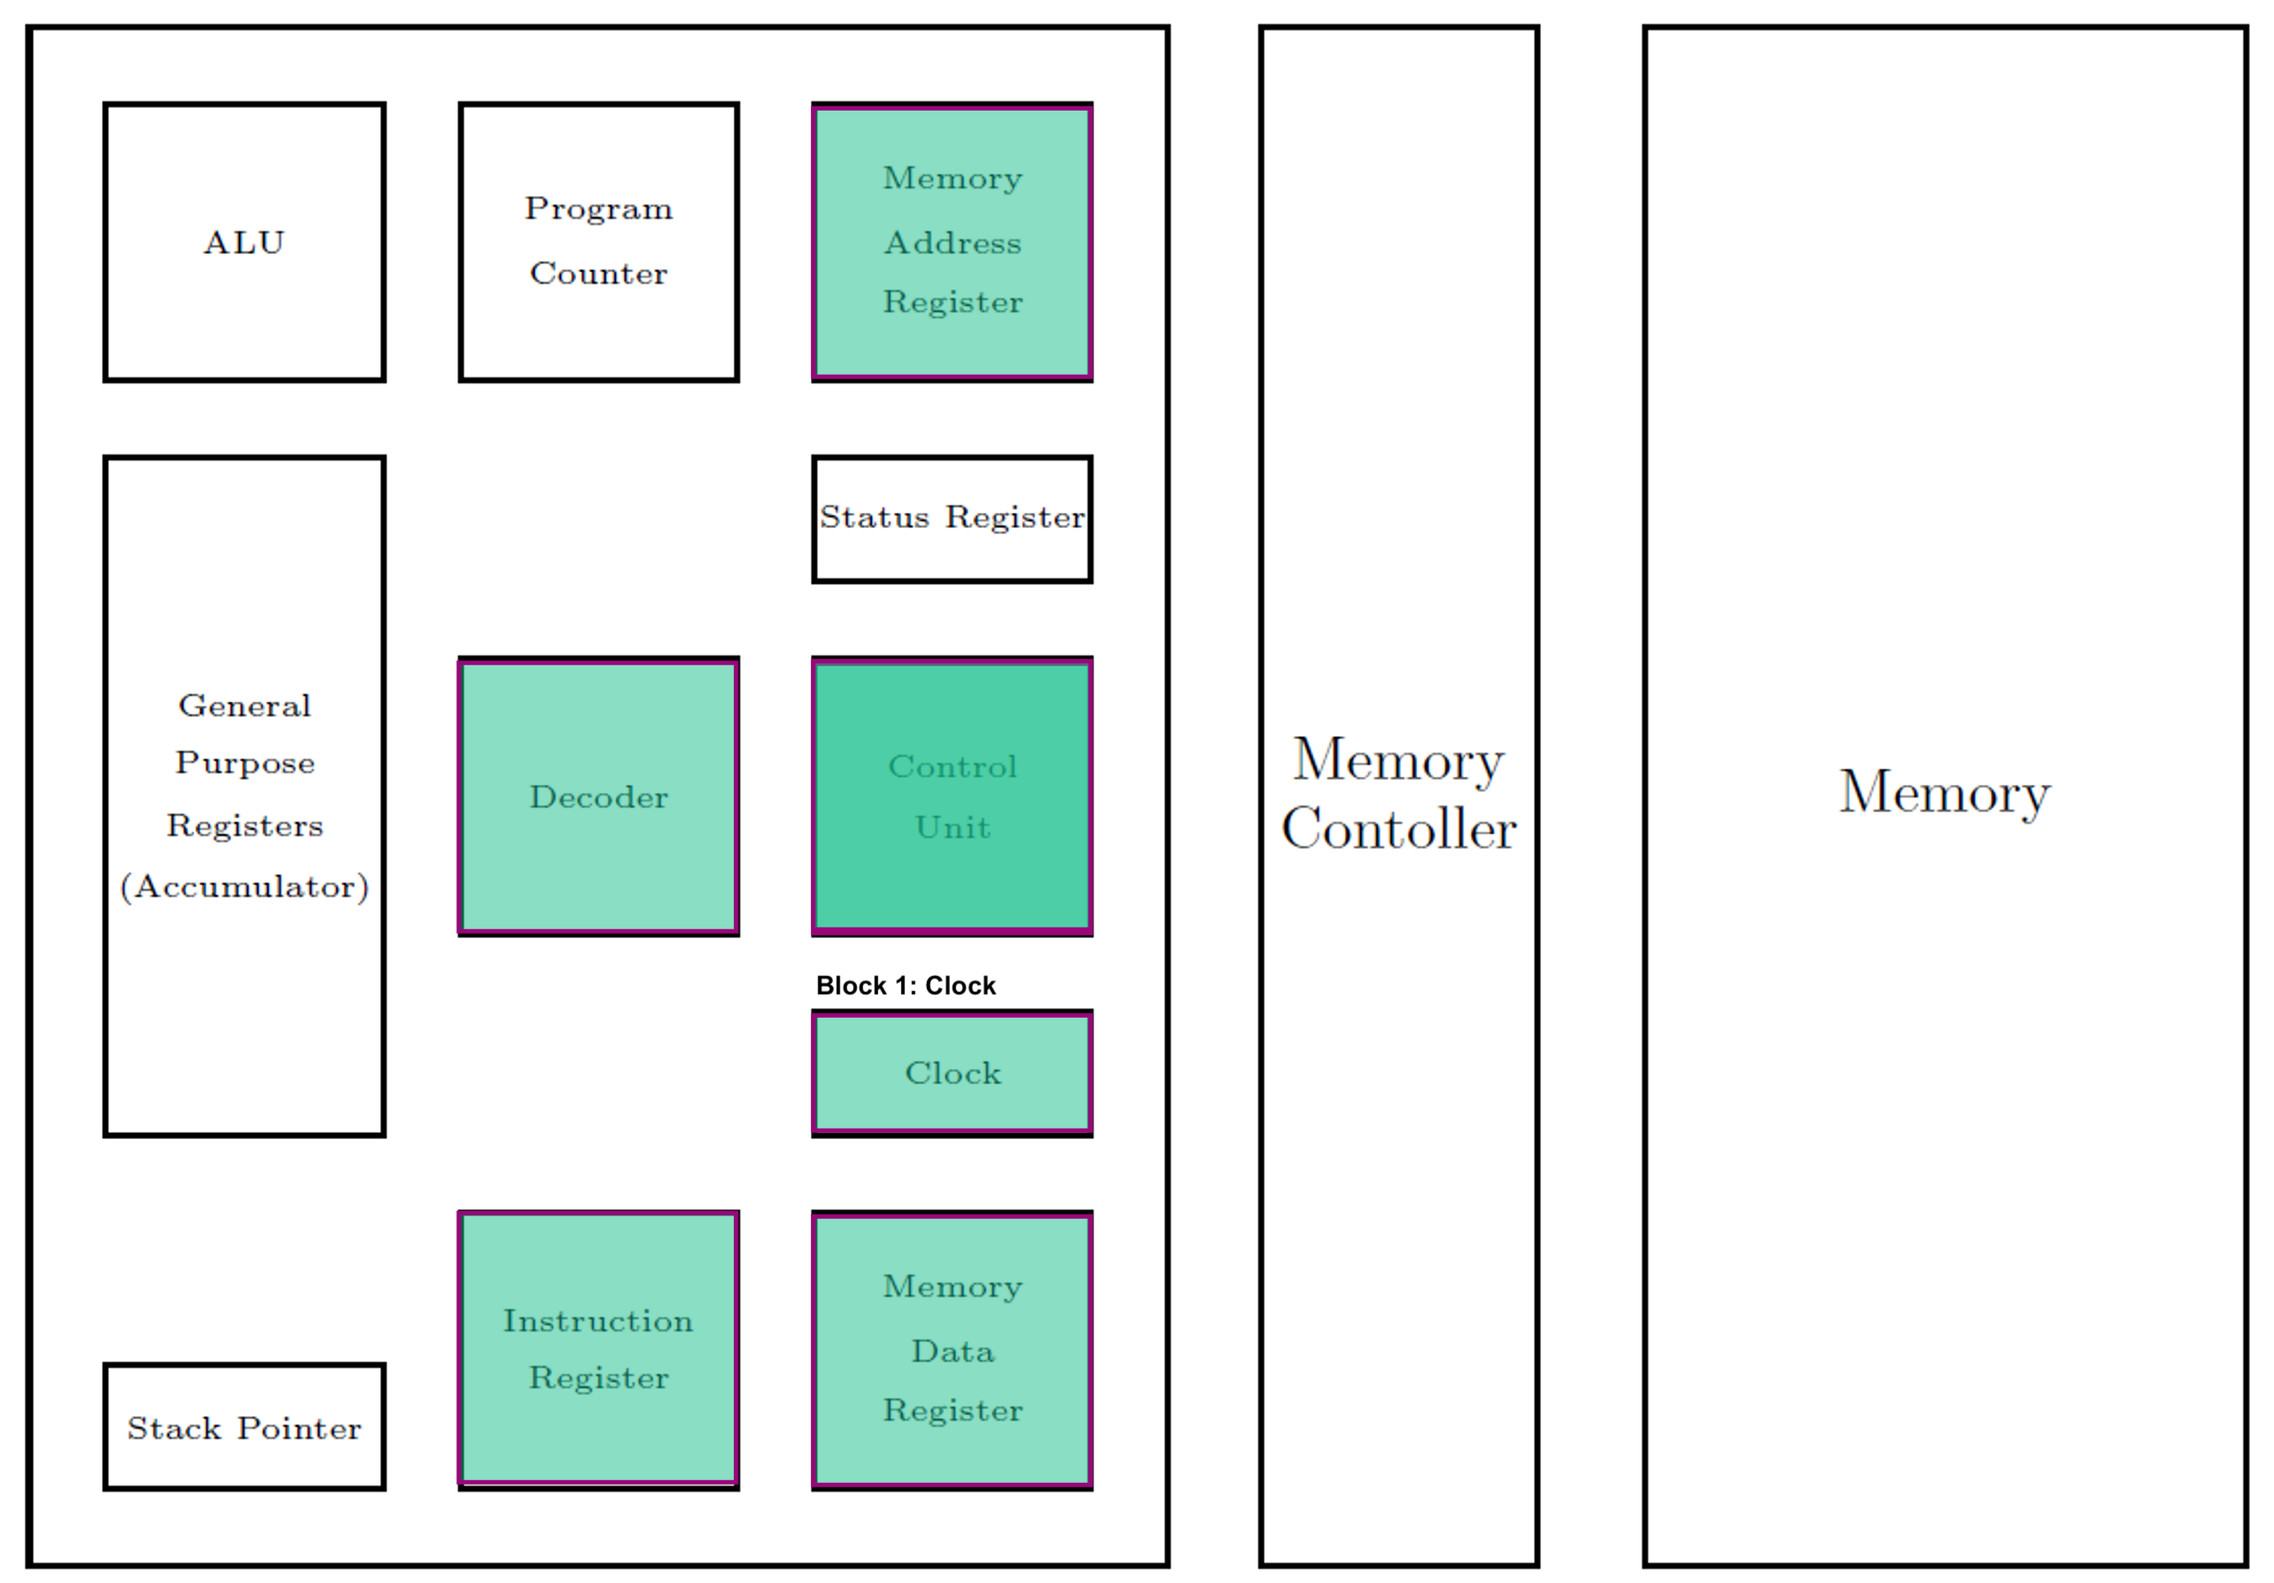
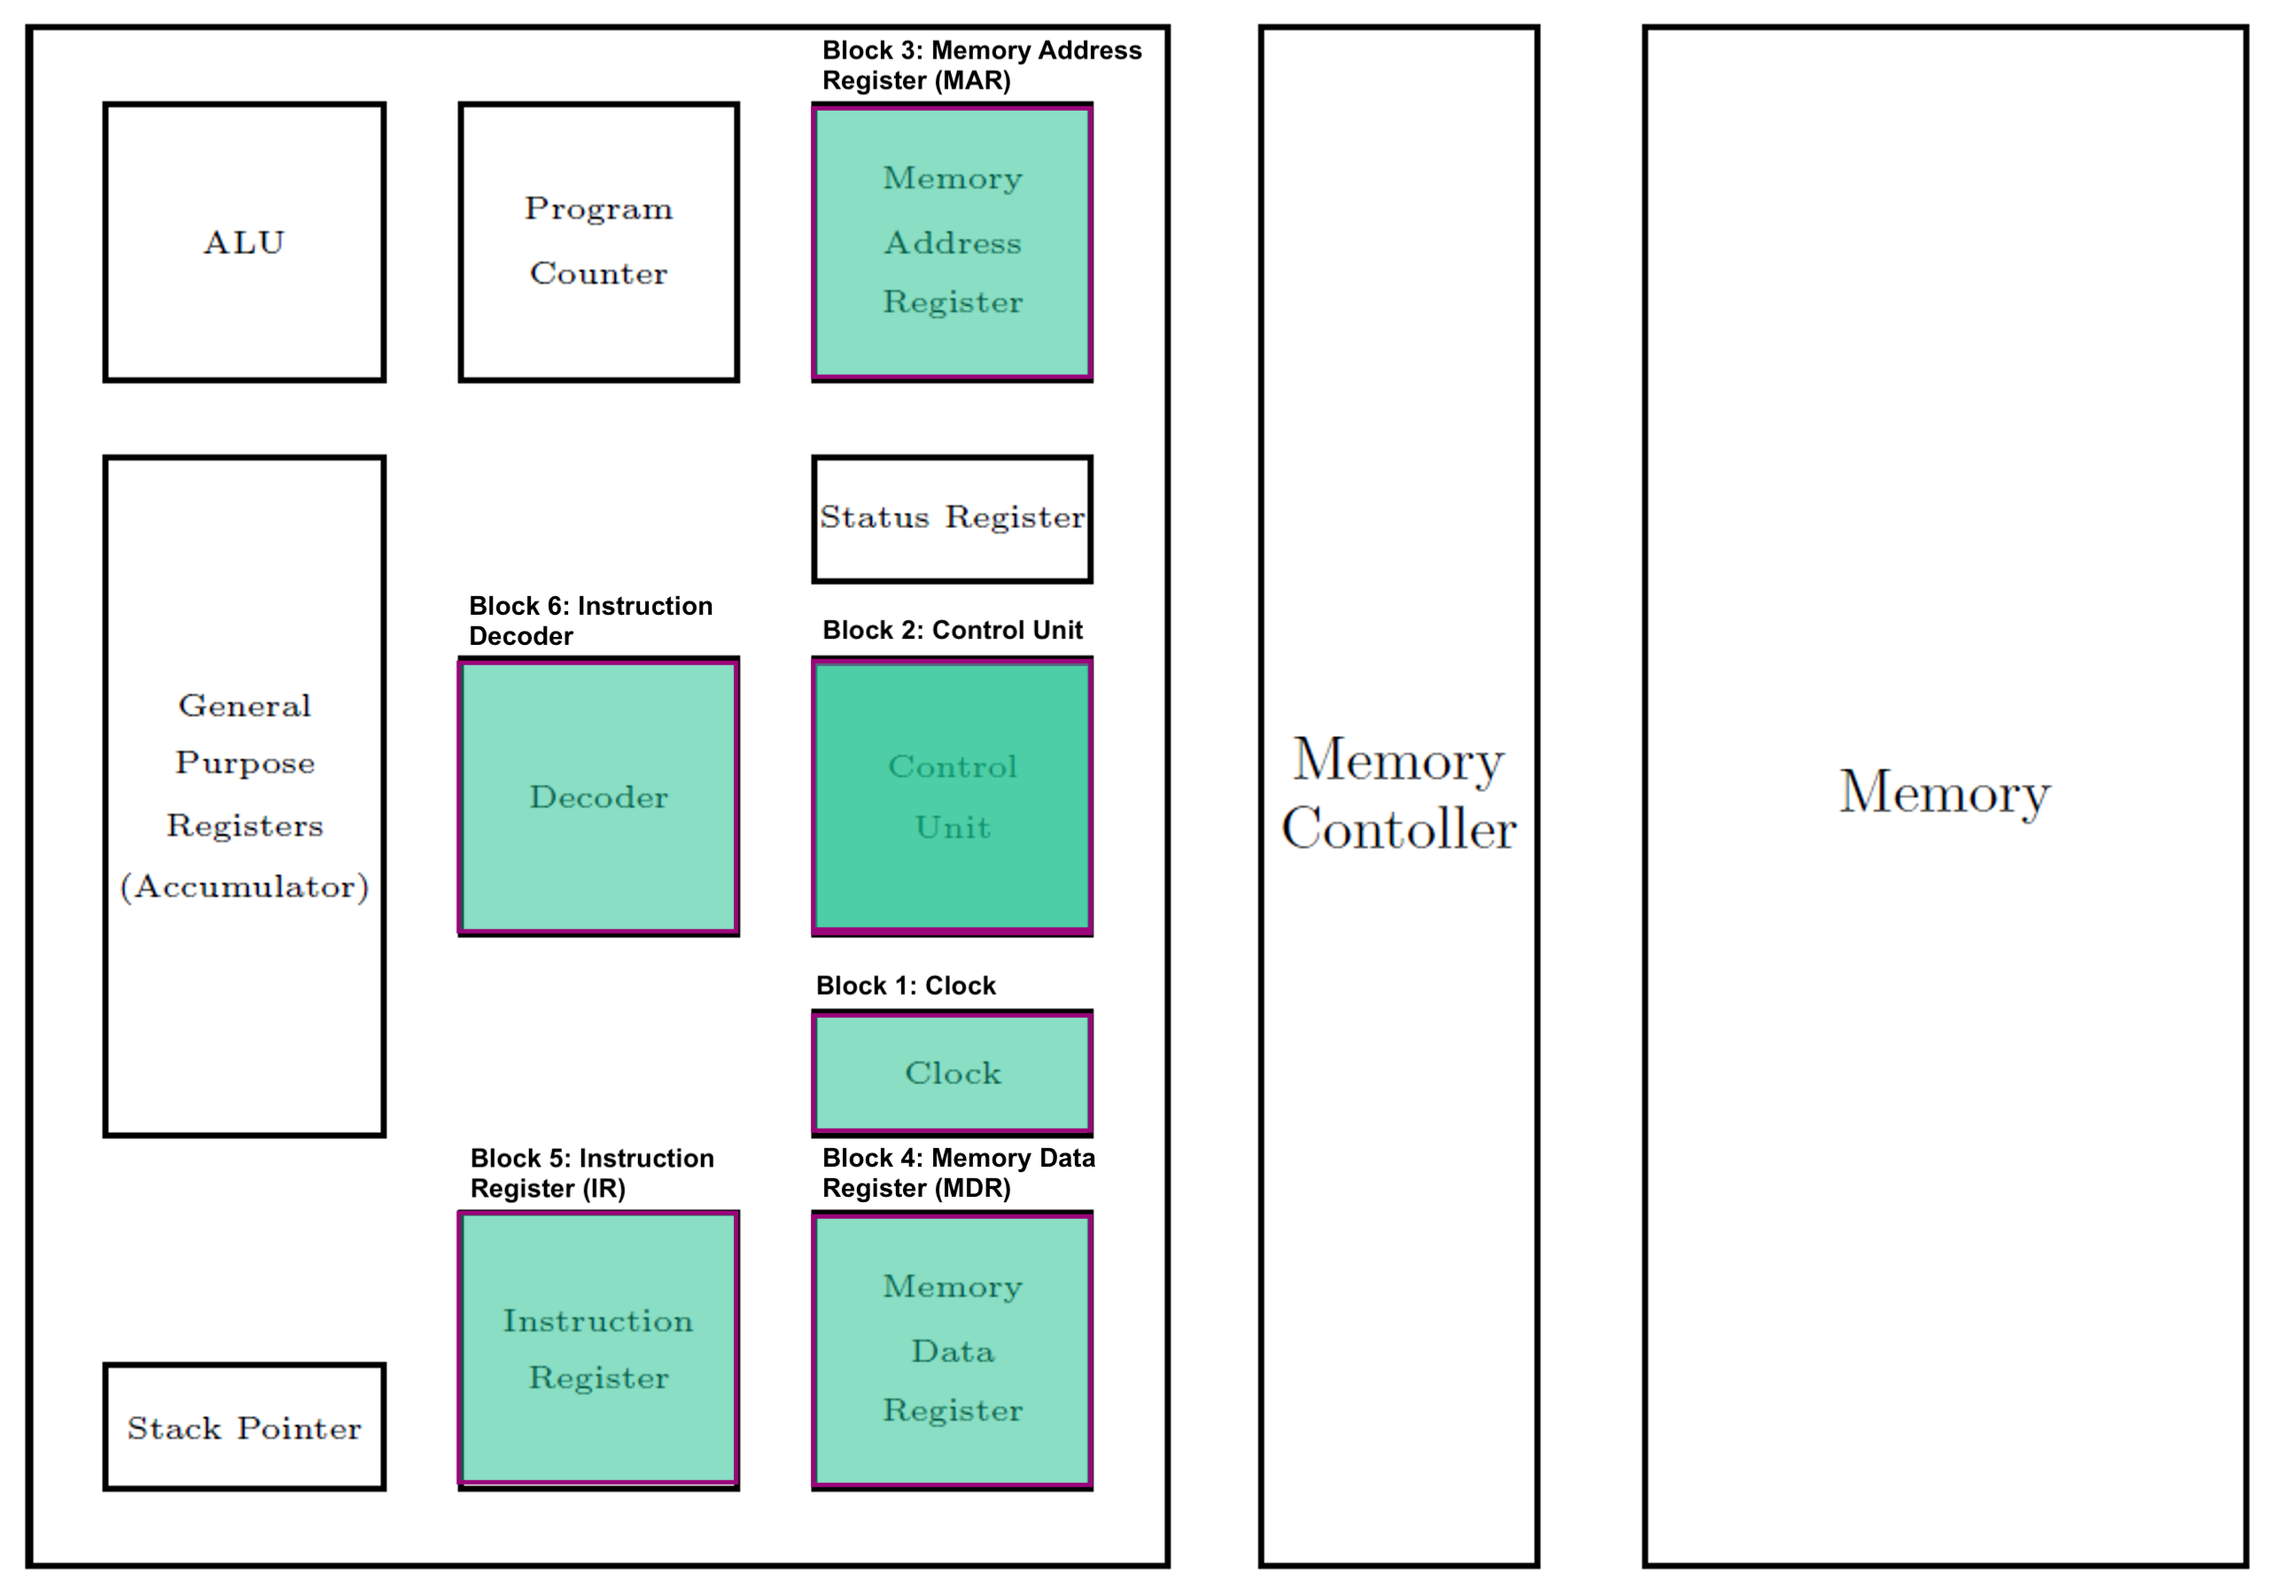
2nd checkin of notes for week 08

diff --git a/eg_151/lectures/week08/index.md b/eg_151/lectures/week08/index.md
@@ -251,7 +251,7 @@ A block diagram of the clock circuity is given in {numref}`wk8:fig:atmel328_clk`
 :width: 100%
 :align: center
 
-Clock distribution of the ATmega328. (Reproduced from Figure 8.1 of the Atmel ATmega328 data sheet.
+Clock distribution of the ATmega328. (Reproduced from Figure 8.1 of the Atmel ATmega328 data sheet {cite.
 ```
 
 +++ {"editable": true, "slideshow": {"slide_type": "slide"}}
@@ -266,12 +266,143 @@ The **CKSEL3..0** are special memory locations in flash memory ("fuses") that ar
 
 There are two registers accessible to the programmer with respect to the clock. These are
 
-**OSCCAL - Oscillation Calibration Register** used to trim the calibrated internal RC oscillator to remove process
-variations from the oscillator frequency
++++ {"editable": true, "slideshow": {"slide_type": "slide"}}
 
-**CLKPR – Clock Prescale Register** whose bits define the division factor between the selected clock source and the internal system clock. These bits
-can beseynat  run-time to vary the clock frequency to suit the application requirement.
-.
+**OSCCAL - Oscillation Calibration Register** used to trim the calibrated internal RC oscillator to remove process
+variations from the oscillator frequency.y
+
++++ {"editable": true, "slideshow": {"slide_type": "slide"}}
+
+**CLKPR – Clock Prescale Register** whose bits define the division factor between the selected clock source and the internal system clock. These bits can be set at run-time to vary the clock frequency to suit the application requirements.
+
++++ {"editable": true, "slideshow": {"slide_type": "slide"}}
+
+#### Block 2: Control Unit
+
+The **control unit** coordinates all activities and sends signals through the control bus to all elements of the microcontroller, including the ALU, memory, and input/output, instructing them how to respond to the instructions from the program code it has just read and interpreted from the memory unit. 
+
++++ {"editable": true, "slideshow": {"slide_type": "fragment"}}
+
+The control unit is responsible for
+- Coordinating and controlling activities of the CPU;
+- Managing data flow between other components and the CPU;
+- Acknowledging and accepting the next instruction; and
+- Storing the resulting data back into a memory unit.
+
++++ {"editable": true, "slideshow": {"slide_type": "slide"}}
+
+#### Block 3: Memory Address Register (MAR)
+
+During operation the address in the program counter is loaded into the **Memory Address Register** and a request is sent onto the address bus to retrieve the data stored at that memory location.
+
++++ {"editable": true, "slideshow": {"slide_type": "slide"}}
+
+#### Block 4: Memory Data Register (MDR)
+
+The data at a particular memory location is loaded from the data bus into the **Memory Data Register** before being passed to the **instruction register** or being operated on.
+
++++ {"editable": true, "slideshow": {"slide_type": "slide"}}
+
+#### Block 5: Instruction Register (IR)
+
+After fetching an instruction from program memory, the microcontroller stores it in the **instruction register**.
+
++++ {"editable": true, "slideshow": {"slide_type": "slide"}}
+
+#### Block 6: Instruction Decoder (ID)
+
+The **instruction decoder** decodes the instruction opcode from the **instruction register** and generates appropriate control signals to execute the instruction.
+
+It contains a lookup table featuring a mapping of all binary instructions in the microcontroller's instruction set architecture.
+
+Once an instruction arrives at the instruction register it is passed to the decoder. Once decoded the output is passed to the control unit to select the correct hardware for the operation or to get the next word of data from memory.
+
++++ {"editable": true, "slideshow": {"slide_type": "slide"}}
+
+A summary of some example operations taken from section 5 of the AVR Instruction Set Manual {cite}`avr_instruction_set` are given in {numref}`wk8:table1`. The interested reader will find full details at the manual reference quoted in the table.
+
+```{list-table} Some examples of instruction decoding
+:header-rows: 1
+:name: wk8:table1
+* - 16 Bit Opcode
+  - Operation
+  - Usage
+  - Syntax
+  - Program Counter (PC)
+  - Manual reference
+* - 0001 11rd dddd rrrr
+  - Add with carry (`ADC`)
+  - Rd <- Rd + Rr + C[^carry_flag]
+  - `ADD Rd, Rr`
+  - PC <- PC + 1
+  - 5.1
+* - 0000 11rd dddd rrrr
+  - Add without carry (`ADD`)
+  - Rd <- Rd + Rr
+  - `ADD Rd, Rr`
+  - PC <- PC + 1
+  - 5.2
+* - 1001 0110 KKdd KKKK
+  - Add Immedidate to Word (`ADIW`)
+  - R[d+1]:Rd <- R[d+1]:Rd + K
+  - `ADIW Rd+1:Rd,K`
+  - PC <- PC + 1
+  - 5.3
+* - 0010 00rd dddd rrrr
+  - Logical AND (`AND`)
+  - Rd <- Rd & Rr
+  - `AND Rd, Rr`
+  - PC <- PC + 1
+  - 5.4
+* - 0111 KKKK dddd KKKK
+  - Logical AND with Immediate (`ANDI`)
+  - Rd <- Rd & K
+  - `ANDI Rd, K`
+  - PC <- PC + 1
+  - 5.5
+* - 1001 010d dddd 0101
+  - Arithmetic Shift Right (`ASR`)
+  - ![ASR Operation](pictures/asr.png)
+  - `ASR Rd`
+  - PC <- PC + 1
+  - 5.6
+* - 1001 0100 1sss 1000
+  - Bit Clear in SREG (`BCLR`)
+  - SREG(s) <- 0
+  - `BCLR s`
+  - PC <- PC + 1
+  - 5.7
+```
+
+[^carry_flag]: The carry flag C comes from the status register.
+
++++ {"editable": true, "slideshow": {"slide_type": "slide"}}
+
+#### Busses
+
+Inside the microcontroller, components communicate with each other using sets of parallel connectors known as buses. The processor is connected to the main memory by three separate buses as illustrated in {numref}`wk8:fig:busses`. 
+
+```{figure} pictures/mc_busses.png
+:alt: The three busses in the ATmega328 microntroller
+:name: wk8:fig:busses
+:width: 100%
+:align: center
+
+The three busses in the ATmega328 microntroller.
+```
+
++++ {"editable": true, "slideshow": {"slide_type": "slide"}}
+
+The three buses are:
+- **Address bus**: a unidirectional bus from the processor to the memory or an I/O controller that carries the location of the data to be read from or written to. 
+- **Data bus**: a bi-directional pathway that carries data or instructions between processor components. The width of data bus is key in determining the overall computer performance. The AVR CPU data bus is 8-bits wide but the word size is 16-bits meaning the data bus has to use two cloxk cycles to fetch each byte of a word from the main memory.
+- **Control bus**: is a bi-directional pathway that carries command, timing and specific status information among components. Examples of control information include:
+  - Read/write from/to memory
+  - Read/write from/to I/O port
+  - Request access to the data bus
+  - Grant access to the data bus
+  - Sync clock
+  - Reset
 
 +++ {"editable": true, "slideshow": {"slide_type": "fragment"}}
 

diff --git a/eg_151/programming_in_c/detecting_and_reacting_to_a_button_press.md b/eg_151/programming_in_c/detecting_and_reacting_to_a_button_press.md
@@ -125,9 +125,7 @@ if (sensorValue <= 127) {
 Once each of the test conditions has been populated with `digitalWrite` statements the code is complete and can uploaded to the Arduino Nano board.
 <!-- #endregion -->
 
-## Note
-
-[^note1]: To avoid using floating point aritmetic, we have rounded $127.875$ to $127$. If you wanted to be really accurate, you could add the full value and round afterwards. For example $$2\times 127.875 = 256$; $$3\times 127.875 = 384$. Indeed it is arguable that $127.875$ is closer to $128$ than $127$!
+[^note1]: To avoid using floating point aritmetic, we have rounded $127.875$ to $127$. If you wanted to be really accurate, you could add the full value and round afterwards. For example $2\times 127.875 = 256$; $3\times 127.875 = 384$. Indeed it is arguable that $127.875$ is closer to $128$ than $127$!
 
 ## Appendix: Code Listing
 
@@ -135,3 +133,7 @@ Once each of the test conditions has been populated with `digitalWrite` statemen
 ### Listing 10: An Example C Program
 The complete code listing can be downloaded as a GitHub gist [example.ino](https://gist.github.com/cpjobling/27269c14e211e7d19657f0a147a3986d)
 <script src="https://gist.github.com/cpjobling/27269c14e211e7d19657f0a147a3986d.js"></script>
+
+```python
+    
+```

diff --git a/eg_151/lectures/week09/index.md b/eg_151/lectures/week09/index.md
@@ -15,7 +15,7 @@ kernelspec:
 
 +++ {"editable": true, "slideshow": {"slide_type": "slide"}}
 
-(week08)=
+(week09)=
 # Addressing Modes
 
 ```{image} ../week02/pictures/chapter_heading.png

diff --git a/eg_151/lectures/index.md b/eg_151/lectures/index.md
@@ -18,3 +18,7 @@
 - {ref}`week09`
 - {ref}`week10`
 <!-- #endregion -->
+
+```python
+
+```

diff --git a/eg_151/references.md b/eg_151/references.md
@@ -2,5 +2,4 @@
 
 ```{bibliography}
 :style: plain
-:filter: docname in docnames
 ```
